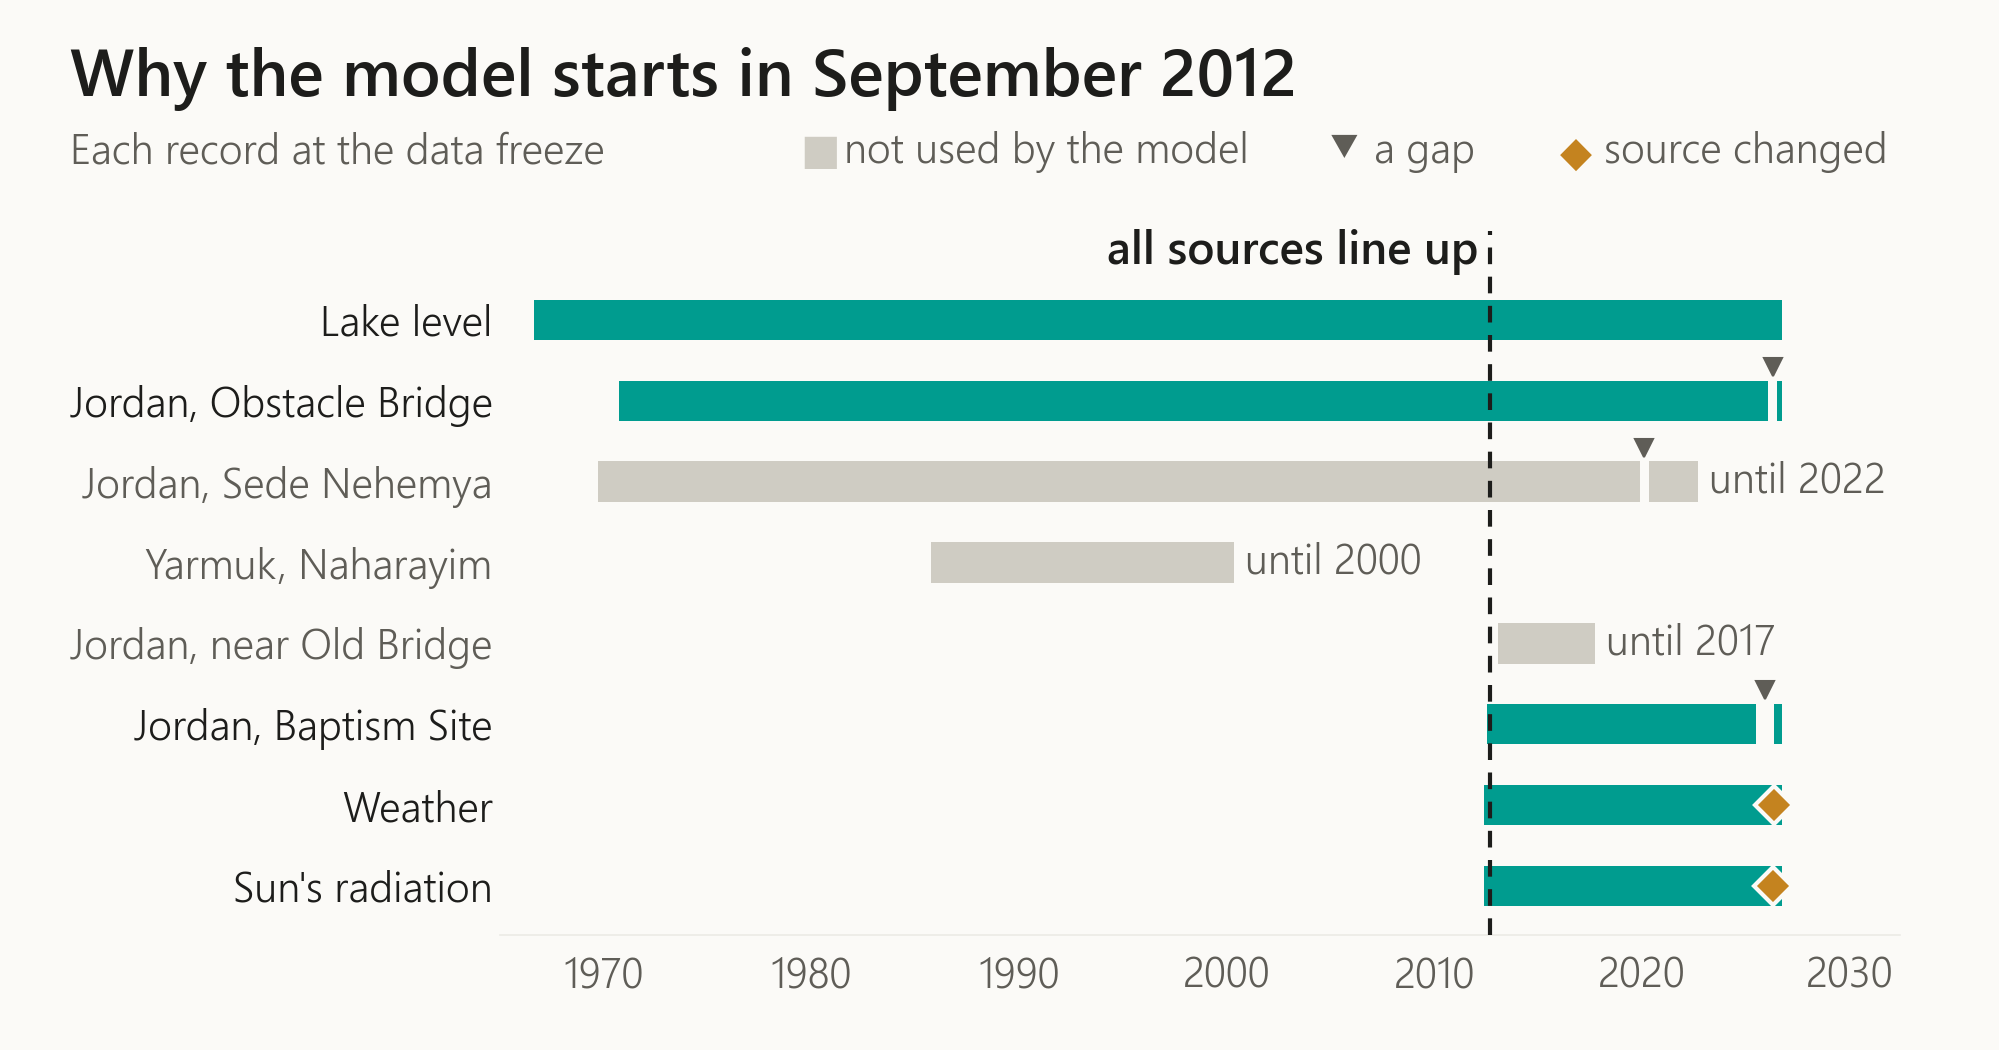
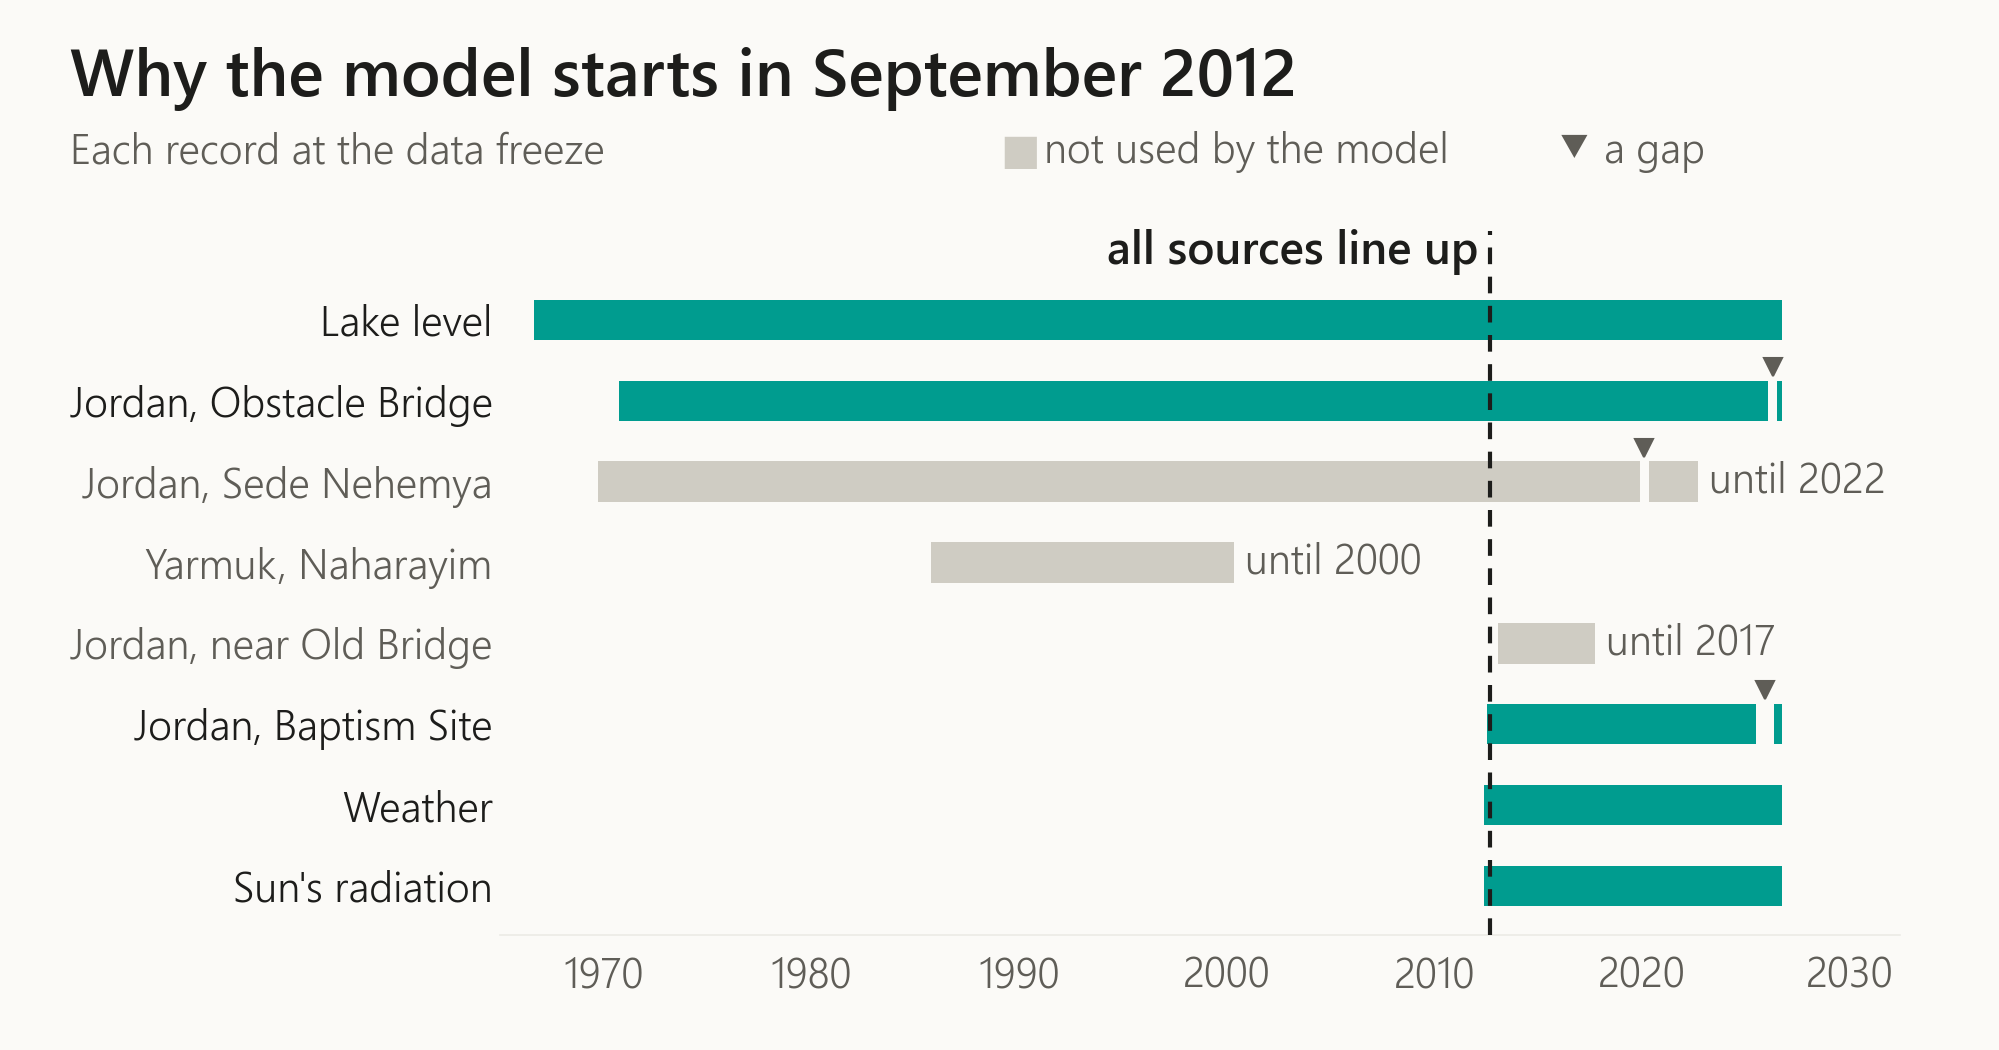
intent/kinneret-talk-deck: coverage chart drops the source-change marks
chart_data("coverage") no longer carries switches and draw_coverage draws no diamond or
"source changed" legend entry; the two remaining legend entries are respaced. The
data.<series>.switch<n> entries stay in the ledger, checked against the data files (designer, Q3).
Truth tests: 24 pass.

Claude-Session: https://claude.ai/code/session_0193nCV9LSRkjivJfTxWrDYe

diff --git a/docs/talk/charts.py b/docs/talk/charts.py
@@ -159,10 +159,9 @@ def chart_data(name: str, ledger: dict) -> dict:
                 "used": ledger[f"data.{sid}.start"]["model_input"],
                 "end": end and end["value"],
                 "gaps": [[_v(ledger, f"data.{sid}.gap{n}.start"), _v(ledger, f"data.{sid}.gap{n}.end")]
-                         for n in numbered(sid, "gap")],
-                "switches": [{"date": _v(ledger, f"data.{sid}.switch{n}"),
-                              "note": ledger[f"data.{sid}.switch{n}"]["note"]}
-                             for n in numbered(sid, "switch")]})
+                         for n in numbered(sid, "gap")]})
+        # data.<sid>.switch<n> stay ledger facts but are not drawn: a mark months before the tip
+        # of a sixty-year bar reads as a break (designer, Q3)
         return {"series": series,
                 "line": {"date": _v(ledger, "data.gold.start"), "label": "all sources line up"},
                 "line_display": ledger["data.gold.start"]["display"],
@@ -452,9 +451,9 @@ def draw_frontier(d, plt):
 
 
 def draw_coverage(d, plt):
-    """One bar per record against time; breaks for gaps, a bar's end where a record stopped, a
-    marker where its source changed, and the line where they all line up. Short events get a
-    minimum drawn width so a three-week gap is still seen on sixty years."""
+    """One bar per record against time; breaks for gaps, a bar's end where a record stopped, and
+    the line where they all line up. Short events get a minimum drawn width so a three-week gap
+    is still seen on sixty years."""
     import matplotlib.dates as mdates
     import pandas as pd
     t = lambda x: mdates.date2num(pd.Timestamp(x))
@@ -479,9 +478,6 @@ def draw_coverage(d, plt):
                     color=INK_2, fontsize=20)
         for g0, g1 in s["gaps"]:
             ax.plot([(t(g0) + t(g1)) / 2], [y + 0.42], "v", color=INK_2, markersize=9)
-        for w in s["switches"]:
-            ax.plot([t(w["date"])], [y], "D", color=OCHRE, markersize=13,
-                    markeredgecolor=SURFACE, markeredgewidth=2, zorder=5)
     line = t(d["line"]["date"])
     ax.axvline(line, color=INK, lw=2, ls=(0, (4, 3)), zorder=4)
     ax.text(line - 200, len(rows) - 0.45, d["line"]["label"], ha="right", va="bottom",
@@ -496,9 +492,8 @@ def draw_coverage(d, plt):
     ax.set_xlim(t("1965-01-01"), t("2032-06-01"))
     ax.spines["bottom"].set_color(GRID)
     fig.text(0.035, 0.875, "Each record at the data freeze", color=INK_2, va="top")
-    for x0, mark, col, size, name in ((0.40, "■", MUTED, 22, "not used by the model"),
-                                      (0.665, "▼", INK_2, 16, "a gap"),
-                                      (0.78, "◆", OCHRE, 20, "source changed")):
+    for x0, mark, col, size, name in ((0.50, "■", MUTED, 22, "not used by the model"),
+                                      (0.78, "▼", INK_2, 16, "a gap")):
         fig.text(x0, 0.872, mark, color=col, va="top", fontsize=size)
         fig.text(x0 + 0.022, 0.875, name, color=INK_2, va="top")
     return fig
